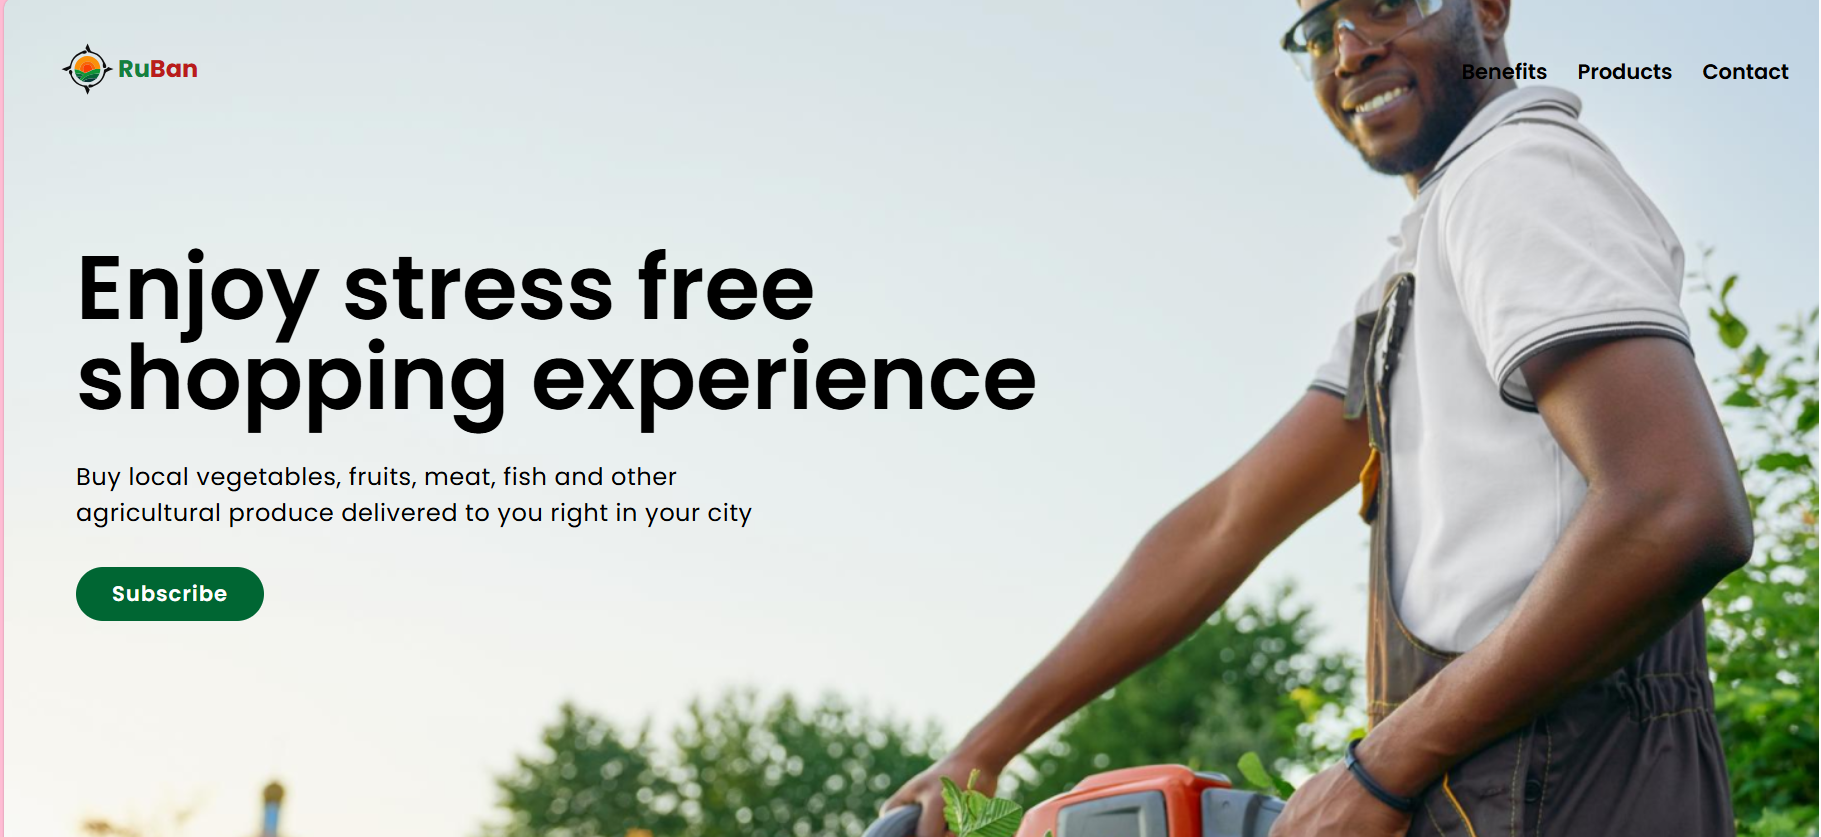
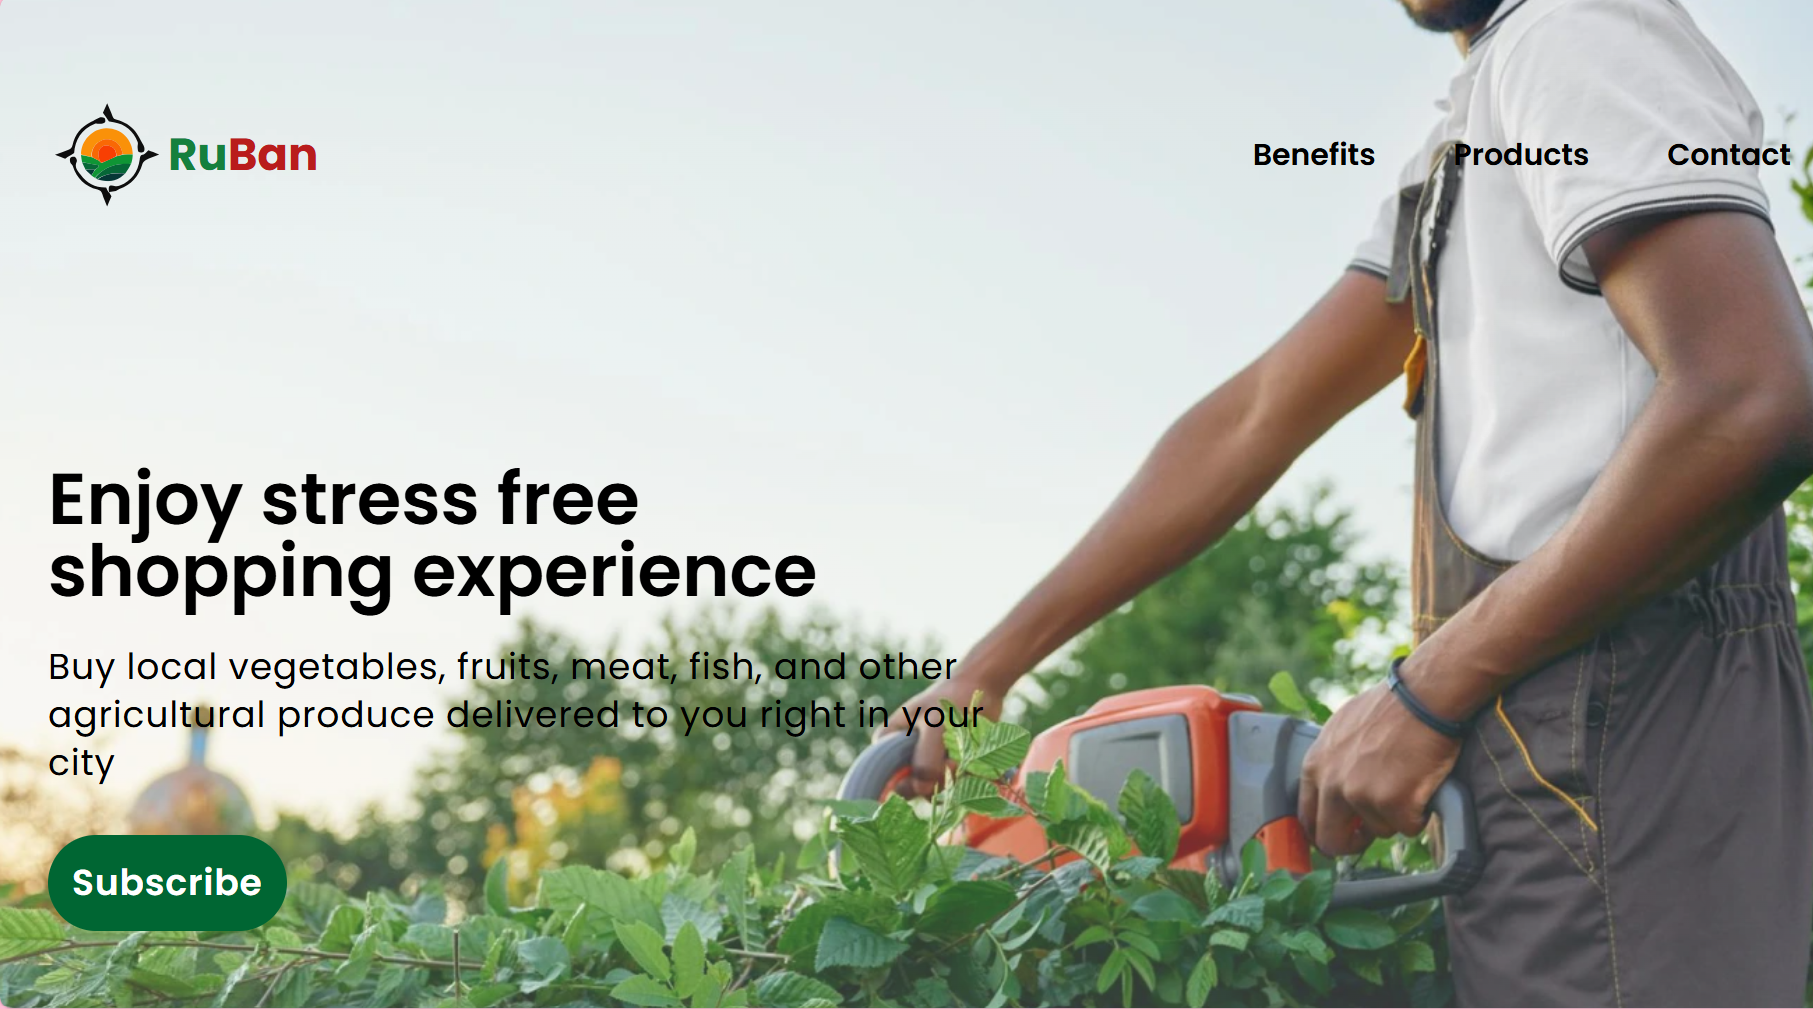
deploy: ea905c6ebd74571330d47cc59748e9b5ae4a99b6

diff --git a/output.css b/output.css
@@ -2062,10 +2062,6 @@ video {
   background-color: rgb(0 102 51 / var(--tw-bg-opacity));
 }
 
-.bg-hero-img{
-  background-image: url("images/bg-image.webp");
-}
-
 .decoration-slice{
   -webkit-box-decoration-break: slice;
           box-decoration-break: slice;
@@ -2989,6 +2985,14 @@ video {
   }
 }
 
+/*background image*/
+
+.bg-hero-img {
+  background-image: linear-gradient(to top, rgba(255, 255, 255, 0.2), transparent), url('images/bg-image.webp');
+  background-size: cover;
+  background-position: center;
+}
+
 /*benefits*/
 
 .benefit-h{
@@ -3058,7 +3062,7 @@ video {
   }
 }
 
-/*bubtton*/
+/*button*/
 
 .btn{
   cursor: pointer;
@@ -3586,10 +3590,6 @@ video {
     top: 16rem;
   }
 
-  .md\:float-start{
-    float: inline-start;
-  }
-
   .md\:-mx-28{
     margin-left: -7rem;
     margin-right: -7rem;
@@ -3618,10 +3618,6 @@ video {
 
   .md\:ml-4{
     margin-left: 1rem;
-  }
-
-  .md\:mr-0{
-    margin-right: 0px;
   }
 
   .md\:mr-4{
@@ -3717,8 +3713,8 @@ video {
     padding-right: 0px;
   }
 
-  .md\:pr-2{
-    padding-right: 0.5rem;
+  .md\:pr-4{
+    padding-right: 1rem;
   }
 
   .md\:pt-0{

diff --git a/index.html b/index.html
@@ -70,13 +70,13 @@
             <div class="absolute md:static right-8 md:right-0 w-40 md:w-auto">
               <nav class="hamburger-menu">
                 <ul class="hidden md:flex md:space-x-8 nav" id="nav_menu">
-                  <li class="nav-s nav-hover mr-8 md:mr-0 py-3 md:py-0">
+                  <li class="nav-s nav-hover py-3 md:py-0">
                     <a href="#benefits"> Benefits </a>
                   </li>
                   <li class="nav-s nav-hover line md:px-5 py-2 md:py-0">
                     <a href="#products"> Products </a>
                   </li>
-                  <li class="nav-s nav-hover -mb-64 py-3 md:py-0 md:pr-2">
+                  <li class="nav-s nav-hover -mb-64 py-3 md:py-0 md:pr-4">
                     <a href="#contact"> Contact </a>
                   </li>
                 </ul>

diff --git a/input.css b/input.css
@@ -52,7 +52,7 @@
 
 /*background image*/
 .bg-hero-img {
-    background-image: linear-gradient(to top, rgba(0, 0, 0, 0.5), transparent), url('images/bg-image.webp');
+    background-image: linear-gradient(to top, rgba(255, 255, 255, 0.2), transparent), url('images/bg-image.webp');
     background-size: cover;
     background-position: center;
   }
